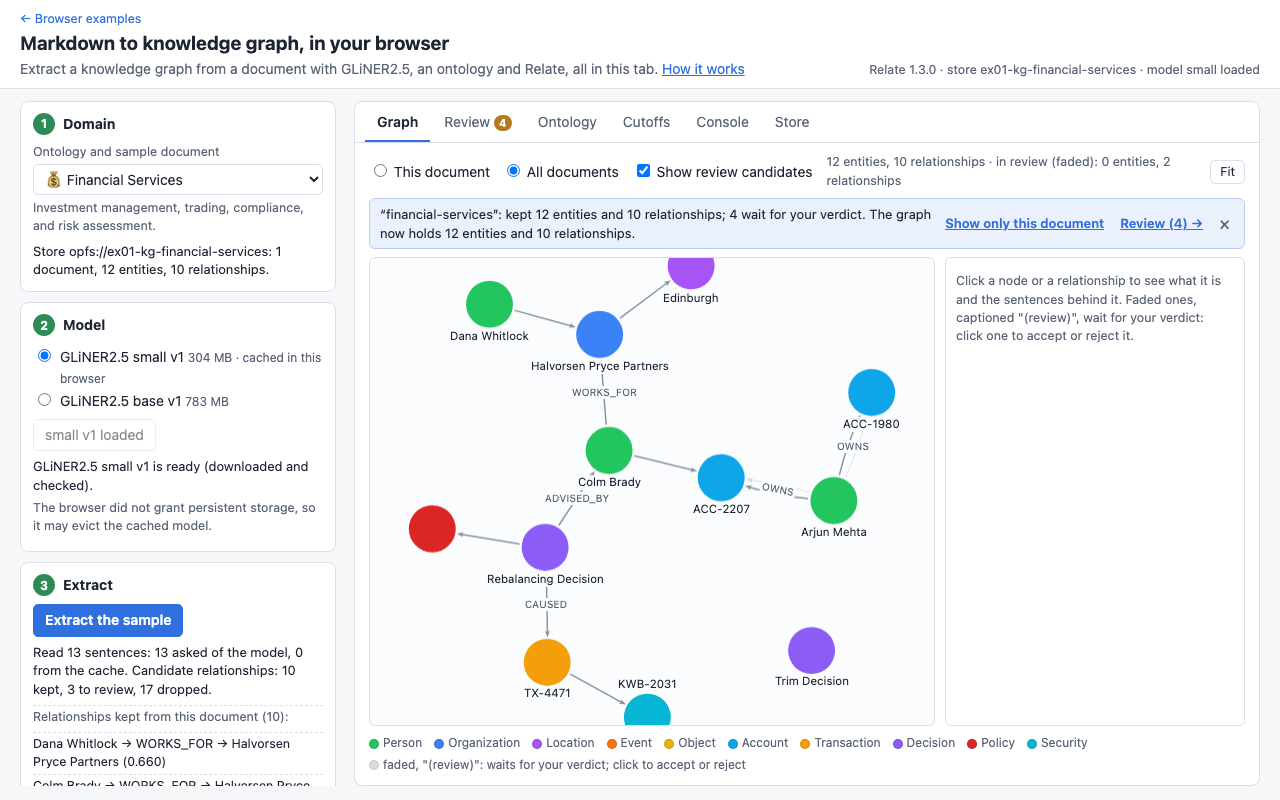
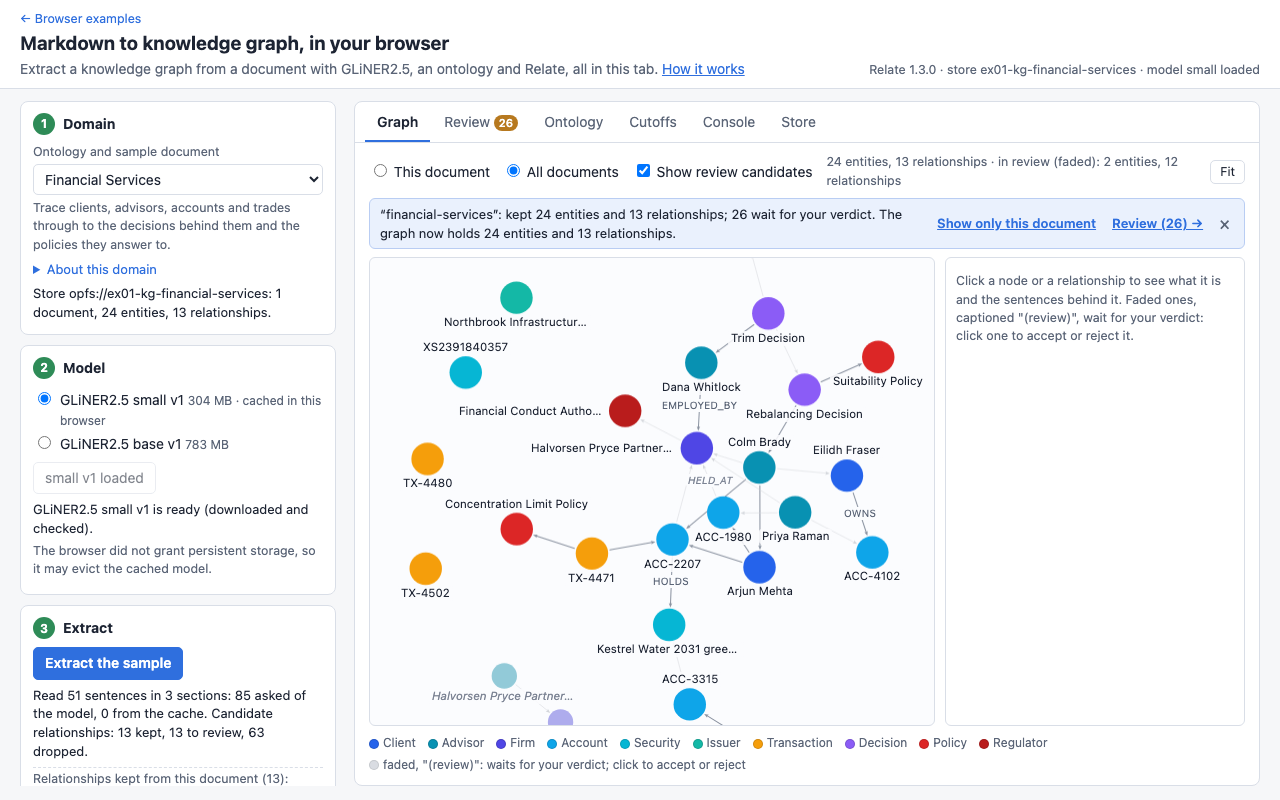
01: the full run recorded on the curated corpus, and the screenshot
One full ./run.sh --update (exit 0), every diff read and classified:
- browser.txt and native.txt run on the curated Financial Services and
  Software Engineering ontologies (D20): their kinds, links, tools and
  counts; values read from text in the side panel (D27); the _Attribute
  key constraint; the second, values-only model call; the migration
  offer for a store made under create-context-graph's version.
- extract.txt: each store reopened as a reload reopens it, its dump
  unchanged (41 stores).
- gate.txt: the Pine Clinic case named as rule 3's inside join.
- review.txt: the mention-reject case now picks the lowest-scoring kept
  mention whose rejection unanchors a claim, tried on a copy of the store.

README and NOTES (D22, D26) state the rules' known limits, each checked
with a repro. PLAN.md's status is current; the run's budget, the tools
that find nothing, toolCompat's wrong "no rows" notes, 9a and 9c are
deferred. screenshot.png retaken.

Claude-Session: https://claude.ai/code/session_014VqGErARkgzipyoj4JRSZC

diff --git a/examples/01-wasm-extract/PLAN.md b/examples/01-wasm-extract/PLAN.md
@@ -37,11 +37,12 @@ breakdowns. Only after that do the other 38 domains follow, and they can be auth
 
 ---
 
-## Status (2026-11-27, paused)
+## Status (2026-11-27)
 
 Local commits on `ex01-ontologies`, never pushed: `b0c2a2a` (the two slices and properties from
-text), `8162d3f` (harness fixes, ADRs, browser tests), then the corpus landing (all 40 domains, the
-recalibrated defaults and the fixes below).
+text), `8162d3f` (harness fixes, ADRs, browser tests), then `9295945` (all 40 domains, the
+recalibrated defaults), then the full run recorded (the browser and native sections on the
+curated corpus, the screenshot).
 
 | Phase | State | Notes |
 |---|---|---|
@@ -52,36 +53,57 @@ recalibrated defaults and the fixes below).
 | 4 The corpus | done | 49 documents (40 primary, 9 companions) and 12 held out, gold v2, lint clean. |
 | 5 Scoring and calibration | done | Precision-first (D23): entity keep 0.70, relation keep 0.20/0.15. base-v1 not recalibrated. |
 | 6 Tools | mostly | Curated tools return rows for 292 of 386; packages' for 28 of 133 (written for their CSV data); 1 error (loans-and-mortgages `default-contagion-…`, `IN` on a non-list). "Every tool returns rows" is not met. |
-| 7 The page | fixed, not yet re-verified | The first full browser run (2026-11-27) found five problems, all fixed: curated stores shown as "own document" (compare by sha, not YAML text); the sample's size question never answered by the test; `refreshNames` ignoring the `proper` rule on reopen (now `store.nameOfMention`, with a Node check that reopening changes nothing); the side panel showing a tool's example while asking for a value; the migration offer requiring `convertedFrom` (earlier builds' stores carry `format`). |
+| 7 The page | done | The full browser run passes end to end on the curated corpus (2026-11-27). The first one found five problems, all fixed: curated stores shown as "own document" (compare by sha, not YAML text); the sample's size question never answered by the test; `refreshNames` ignoring the `proper` rule on reopen (now `store.nameOfMention`, with a Node check that reopening changes nothing); the side panel showing a tool's example while asking for a value; the migration offer requiring `convertedFrom` (earlier builds' stores carry `format`). |
 | 8 Harness and CI | done, over budget | Inference cache (D24), engine pool, CI cache. A full `./run.sh` takes about an hour (target was 25 minutes): subset the grids or the ablations. |
 | 9a Reconcile with records | not started | Waits on 02's loader in `lib/`. |
 | 9b Properties from text | done | D27, ADR-0021: values P 0.918 R 0.642. |
 | 9c Aliases into one entity | not started | |
-| 10 Records | mostly | ADR-0019 to 0021, NOTES D20-D27 and G12, README, THIRD_PARTY, `site.json`, AGENTS.md, CI. The screenshot is not retaken. |
+| 10 Records | mostly | ADR-0019 to 0021, NOTES D20-D27 and G12, README, THIRD_PARTY, `site.json`, AGENTS.md, CI, the screenshot (the curated Financial Services graph). |
 
 **Scores at the defaults** (dev, 49 documents): entities P 0.903 R 0.800; relations P 0.917
 R 0.221 (lists 53 of 531, tables 7 of 441); values P 0.918 R 0.642; 3 of 246 distractors kept.
 Held out: entities P 0.868 R 0.728, relations P 0.944 R 0.233, 0 of 36 distractors kept.
 
-**`expected/` state.** probes, model, ontology, extract, gate, audit, review, score and
-`graph.cypher` are recorded from this code, each diff read and classified (the corpus, the new
-defaults, rule 3's inside join, the "says" cue, the wider SDK checks). Since that run, two harness
-lines changed (`extract.txt`: the reopen check; `gate.txt`: the Pine Clinic case named as the inside
-join), so the next `./run.sh` shows those two. **`browser.txt` and `native.txt` are still the
-create-context-graph build's**: the browser section has not passed end to end on the curated corpus.
+**`expected/` state.** Every file is recorded from this code by one full `./run.sh --update`
+(exit 0), each diff read and classified. `browser.txt` and `native.txt` now run on the curated
+Financial Services and Software Engineering ontologies (D20): their kinds, links, tools and counts;
+values read from text (D27: a click on TX-4471 shows its amount, side and trade date; the 16th
+UNIQUE constraint is `_Attribute`'s key; sentences that could state a value take a second model
+call, so the crash test's resume asks 24 calls, not 12); the new migration section (D20) and the
+reset on the Financial Services store it empties. `extract.txt` gains the reopen check, `gate.txt`
+names the Pine Clinic case as the inside join, and `review.txt` records the new mention-reject
+target.
 
-**Next, in order:**
-1. `./run.sh --update` (about an hour; `caffeinate -i`). Read `git diff expected/browser.txt
-   expected/native.txt` and the two harness lines above; fix any browser failure and rerun.
-2. Retake `screenshot.png` (`./run.sh --site`, then `node harness/drive.mjs --smoke --screenshot
-   screenshot.png --base-url …`).
-3. `review.txt`'s mention-reject case no longer shows unanchoring (the two claims rejoin another
-   mention of the same decision): pick a target whose claims have no other mention.
-4. Bring the run under budget (Phase 8).
-5. Record the known limits in README/NOTES: names.js gives no name to "A-" and all-digit
-   identifiers; split.js and "Ltd."; one ask per legal pair for multi-pair links; rule 2b; base-v1
-   uncalibrated.
-6. Before each commit: the two name searches, `uv run pytest -q`, `node harness/convert.mjs --check`.
+**Done this pass:** the full run recorded; `screenshot.png` retaken; `review.txt`'s
+mention-reject case picks the lowest-scoring kept mention whose rejection unanchors a claim, tried on
+a copy of the store; the known limits are in README ("Known limits of the rules") and NOTES (D22,
+D26), each checked with a repro ("Ltd." does not split, being a listed abbreviation; "Plc.", "Corp."
+and "GmbH." do).
+
+**Before each commit:** the two name searches, `uv run pytest -q`, `node harness/convert.mjs --check`.
+
+**Deferred to a later pass** (agreed 2026-11-27; each changes scope or `score.txt`, so each is a
+decision, not a fix):
+- **The run's budget** (Phase 8). A full `./run.sh` takes about an hour against the 25-minute
+  target, which CI pays on every push to `main`. Likely route: the per-setting grids and the
+  "how the model is asked" comparison on a fixed subset of documents (as the floor invariant
+  already uses one), with `score.txt` saying which. The dev and held-out scores stay on everything.
+- **Tools that find nothing** (Phase 6, "Done means"). Curated tools return rows for 292 of 386 on
+  their stores: revise the tools (or their documents) that a reader would expect to answer. The
+  packages' queries (28 of 133) are verbatim and written for their CSV data: restate the goal for
+  them (their notes already say what each can do on an extracted graph) rather than edit them.
+  One package query errors (loans-and-mortgages `default-contagion-through-borrowers-and-guarantors`,
+  `IN` on a non-list): report it upstream or note it.
+- **The tools' notes that say "no rows" wrongly** (with the item above). `web/console.js`
+  `toolCompat` predicts empty for 157 tools, and 78 of them return rows (`audit.txt`, "misses").
+  Its property lists predate D27 and the bookkeeping labels: it treats every property outside
+  `ENTITY_PROPERTIES` as never written, so a key the extractor now reads from text (`accountId`,
+  `isin`, a course code) and a `_Claim`'s own fields (`band`, `htext`, `rel`, `p`, `rule`: every
+  curated `claims-waiting-about-a-name`) are reported as never written, and the page shows that
+  note. Fix: take the ontology's extracted properties and each bookkeeping label's fields into
+  account, then re-record `audit.txt` and `browser.txt`.
+- **9a** (reconcile the gold with the packages' records; waits on 02's loader in `lib/`) and **9c**
+  (aliases into one entity).
 
 ---
 

diff --git a/examples/01-wasm-extract/NOTES.md b/examples/01-wasm-extract/NOTES.md
@@ -44,7 +44,7 @@ The ids that carry a larger decision point to its ADR in [`docs/adr/`](../../doc
 The design ids the code and outputs cite, defined here.
 
 - **D1** One example, numbered 01. **D2** (ADR-0005) The engine: Relate 1.3.0, the release the npm package, the CLI and the Python binding share. **D4** (ADR-0010) The model: GLiNER2.5 through gliner-rs v0.3.1 compiled to WASM (small-v1 by default). **D5** edgextract's engine is not used; its approach, sentence splitter and name rules are, ported. **D6** (ADR-0010) One engine worker owns the store and the model; a console worker borrows the store. **D7** Inferences are cached per sentence in `(:_Inference)` nodes. **D8** The graph schema: the example's own labels and types start with `_`, which no ontology id may. **D9** (ADR-0006) No transactions (R2), so writes are idempotent and a section is committed by a marker. **D10** The gate is Cypher, every `$param` guarded on the parameter side. **D11** (ADR-0010) The Cypher console queries the live store through a lent read-only handle. **D12** Three test surfaces (Node, the browser, native) share one store module. **D13** (ADR-0010) The page's modules are unbundled; NVL is vendor-bundled. **D14** One ontology per store (`ex01-kg-<slug>`). **D15** The ontology document lives in `neo4j`, with a canary for `db.ontology.*` (R17). **D16** The extracted knowledge graph and its NVL view. **D17** Download (a snapshot tar) and restore. **D18** (ADR-0008) `lib/replay` carries graph types. **D19** (ADR-0002) The site: a static GitHub Pages project site for the repository's browser examples.
-- **D20–D27** the ontology and corpus pass: **D20** (ADR-0019) curated ontologies (`data/ontologies/domains/`), role kinds without the POLE+O layer. **D21** (ADR-0020) the solution packages from `neo4j/studio-agent-use-cases`, vendored verbatim (`harness/vendor-studio.mjs`) with this repository's overlay beside each (`web/studio.js`). **D22** the `relate-examples` extension (a kind's cue, a link's phrase, a tool's question, teaches, category and requires) and the schema budget of the first call (2,000 characters). **D23** the corpus and gold v2 (entities with aliases, relations with how the text states them, distractors by family, property values), and the defaults set on its dev set precision-first: on a 0.05 grid, the setting with the most recall whose kept precision is at least 0.90 (entity keep 0.70, relation keep 0.20), checked on the 12 held-out documents and never tuned on them (`score.txt`). **D24** the harness's inference cache (`.cache/ex01-infer/`, every 33rd answer asked again). **D25** a key property filled from the name by its pattern. **D26** `proper` and `propose`: a kind of proper names names nothing in lower case; its key pattern proposes identifiers. **D27** (ADR-0021) properties read from the text: a second call of structures alone (G12), only for sentences that could hold a value; values parsed by type (`web/values.js`), joined to an entity by the mentions (the gate's rule 8) and published typed.
+- **D20–D27** the ontology and corpus pass: **D20** (ADR-0019) curated ontologies (`data/ontologies/domains/`), role kinds without the POLE+O layer. **D21** (ADR-0020) the solution packages from `neo4j/studio-agent-use-cases`, vendored verbatim (`harness/vendor-studio.mjs`) with this repository's overlay beside each (`web/studio.js`). **D22** the `relate-examples` extension (a kind's cue, a link's phrase, a tool's question, teaches, category and requires) and the schema budget of the first call (2,000 characters; it counts every link's ask, one per legal pair, but only kind descriptions are cut to fit, so a link with many pairs leaves less room). **D23** the corpus and gold v2 (entities with aliases, relations with how the text states them, distractors by family, property values), and the defaults set on its dev set precision-first: on a 0.05 grid, the setting with the most recall whose kept precision is at least 0.90 (entity keep 0.70, relation keep 0.20), checked on the 12 held-out documents and never tuned on them (`score.txt`). **D24** the harness's inference cache (`.cache/ex01-infer/`, every 33rd answer asked again). **D25** a key property filled from the name by its pattern. **D26** `proper` and `propose`: a kind of proper names names nothing in lower case; its key pattern proposes identifiers (known limit: "A-00724" loses its "A" as an article, is left with digits only, has no canonical name and drops by `no-name`, as does a bare number). **D27** (ADR-0021) properties read from the text: a second call of structures alone (G12), only for sentences that could hold a value; values parsed by type (`web/values.js`), joined to an entity by the mentions (the gate's rule 8) and published typed.
 - **E1–E4** edgextract's rules as ported: E1 its ontology YAML (refused now, read only for the stores earlier builds made), E2 sentence splitting, E3 names, E4 its gate.
 - **G1, G2, G5–G8, G10, G11** findings about the model: G1 the checkpoints, G2 Python gliner2, G5 gliner-rs's API, G6 its build, G7 parity with Python and determinism, G8 its cost, G10 long input collapsing (use per-sentence input), G11 its output shape (code-point offsets, one span under two labels), G12 its structures (D27): asked in the same call as the entities and relations they change those answers (financial-services lost a relation and two tools their rows), so they are asked alone; alone, a value field reads well (the referral's amounts and dates at 0.88 to 0.99) and the anchor field poorly (0.1 to 0.6, often another span), so values join entities by the mentions; a choice field whose value is not in the text answers without a span ("SIPP", "transfer-in" at about 0.8 on almost every sentence), which the pipeline drops.
 - **O1, O3–O7** findings about ontologies on the engine: O1 `db.ontology.*` is not usable (R17), O3 `system_ontologies` (R17), O4 a graph type enforces endpoints and names (R16), O5 graph-type limits (R16), O6 graph types, constraints and indexes persist across `free()`, reopen and a native copy, O7 (ADR-0007) the move to the published spec: a store a draft-format build wrote has its document converted on open (`lib/ogs.mjs` `fromDraft`) and stored again in the published format; its sha256 changes, so it is gated and published once more, and the inference cache's keys (D7, which include the ontology) change with it: the next extraction of each section asks the model again rather than reusing the cached answers.

diff --git a/examples/01-wasm-extract/README.md b/examples/01-wasm-extract/README.md
@@ -696,6 +696,28 @@ edge sets (`model.txt`), and gives the same answers in Node and Chromium (`brows
   and 2 to 19 links), plus a second, smaller call for a sentence that may state a value (D27); about
   680 MB of WASM memory; a warm load reads and hashes 304 MB from Cache Storage.
 
+### Known limits of the rules
+
+These are this example's own rules (`web/names.js`, `web/split.js`, the gate, `web/ontology.js`),
+not the model's or the engine's.
+
+- **Some identifiers get no name** (D26). `entityName` drops the articles a, an and the, so
+  "A-00724" and "A-7" are left with an all-digit token, which is opaque, and have no canonical
+  name; a bare number such as "15502307" is opaque too. Such a mention drops by rule `no-name`
+  and never reaches review. "B-00724" and "ACC-2207" are fine.
+- **The sentence splitter knows 22 abbreviations** (`ABBREVIATIONS` in `web/split.js`, E2).
+  "Ltd.", "Inc." and "Co." do not end a sentence; "Plc.", "Corp.", "GmbH." and "Pty." do. "Solenne
+  Photovoltaics Plc. in Gateshead employs Rhys Penhallow." becomes two sentences, and a relation
+  across the split is never asked, because the model reads one sentence at a time.
+- **A link with many legal pairs makes a long question** (D22). It is asked once per pair, joined
+  by " or " (see "What the model is asked"): a link legal for 25 kind pairs is 776 characters of
+  the 2,000. The budget shortens kind descriptions only; a link's ask is never cut, so a link with
+  many pairs leaves less room for the kinds' descriptions.
+- **Rule 2b keeps one kind per name** (the gate). For example, "Mercury" kept as a Planet and as a
+  Company keeps one of them; the other's mentions go to review as `other-kind`. The gate cannot
+  tell one thing the model typed two ways from two things that share a name. Accepting the mention
+  in the Review tab keeps both.
+
 ## Relate behaviours
 
 [NOTES.md](NOTES.md) lists every Relate 1.3.0 behaviour this example depends on or pins (R1-R24),
